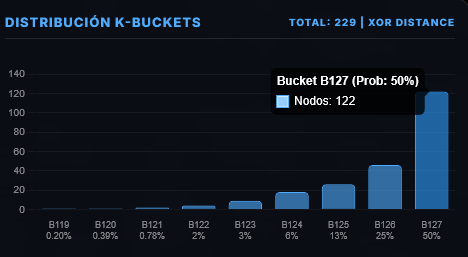
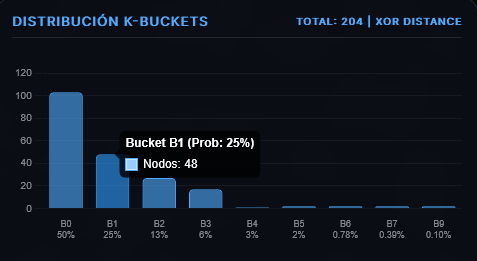
feat: Sybil and Eclipse attacks detection (phase 1)

diff --git a/frontend/app.js b/frontend/app.js
@@ -634,10 +634,9 @@ function updateKBucketsChart(nodes, localId) {
         const dist = getKadDistance(localId, node.id);
         if (dist === 0n) return; // Somos nosotros o misma ID
 
-        // El bucket es la posición del bit más significativo (log2)
-        // En JS con BigInt: toString(2).length - 1
-        const bucketIndex = dist.toString(2).length - 1;
-        if (bucketIndex >= 0 && bucketIndex <= 128) {
+        // El bucket es (127 - log2(dist)) para que B0 sea el más lejano
+        const bucketIndex = 127 - (dist.toString(2).length - 1);
+        if (bucketIndex >= 0 && bucketIndex <= 127) {
             bucketCounts[bucketIndex]++;
         }
     });
@@ -651,10 +650,10 @@ function updateKBucketsChart(nodes, localId) {
     const dataValues = [];
     let validNodesCount = 0;
 
-    for (let i = 0; i <= 128; i++) {
+    for (let i = 0; i <= 127; i++) {
         if (bucketCounts[i] > 0) {
-            // Calcular la probabilidad matemática de caer en esta cubeta (1 / 2^(128-i))
-            const probPct = (1 / Math.pow(2, 128 - i)) * 100;
+            // Probabilidad invertida: B0 = 50%, B1 = 25%...
+            const probPct = (1 / Math.pow(2, i + 1)) * 100;
             let probStr = "<0.01%";
             if (probPct >= 1) {
                 probStr = `${Math.round(probPct)}%`;

diff --git a/backend/ids_engine.py b/backend/ids_engine.py
@@ -1,6 +1,7 @@
 import json
 import os
 from datetime import datetime
+from . import kad_utils
 
 class KadIDSEngine:
     """
@@ -160,6 +161,175 @@ class KadIDSEngine:
         
         self._save_history()
 
+
+    def _detect_eclipse(self, stats, nodes):
+
+        """
+        Detector de Ataques Sybil/Eclipse.
+        
+        Analiza la distribución de buckets y la proximidad de IDs para identificar
+        intentos de aislamiento del nodo o inundación de identidades falsas.
+
+        Args:
+            stats (dict): Estadísticas del cliente (debe contener 'local_id').
+            nodes (list): Lista de nodos geolocalizados.
+
+        Returns:
+            tuple: (list de alertas, float p_value_placeholder)
+        """
+
+        # KadID local
+        local_id = stats.get("local_id")
+
+        if not local_id or not nodes:
+            return [], 1.0
+
+        total_nodes = len(nodes) # Total de nodos 
+
+        observed = {} # Diccionario para contar nodos observados en cada bucket
+        proximity_buckets = [117, 118, 119, 120, 121, 122, 123, 124, 125, 126, 127] # Zona de riesgo (ahora en índices altos)
+        proximity_count = 0 # Contador de nodos en buckets cercanos
+
+        subnet_groups = {} # Diccionario para agrupar nodos por subred
+        
+        # 1. Clasificación de nodos por bucket y subred
+        for node in nodes:
+
+            node_id = node.get("id")
+            node_ip = node.get("ip", "")
+            
+            if not node_id:
+                continue
+            
+            # Calcula el bucket al que pertenece el nodo
+            bucket = kad_utils.get_kad_bucket(local_id, node_id)
+
+            # Cuenta cuántos nodos hay en cada bucket
+            observed[bucket] = observed.get(bucket, 0) + 1
+            
+            # Conteo de proximidad a la zona de riesgo
+            if bucket in proximity_buckets:
+                proximity_count += 1
+                
+            # Agrupación por subred /24 en buckets cercanos (B117-B127)
+            if bucket >= 117 and node_ip:
+
+                """
+                La subred /24 es la "huella dactilar" de una ubicación física o un servidor específico. 
+                Si vemos una concentración de nodos ahí, es casi seguro que se trata de un ataque desde una granja de servidores o una infraestructura controlada.
+                """
+
+                # Por ejemplo: "200.74.56.12" se convierte en "200.74.56"
+                subnet = ".".join(node_ip.split(".")[:3])
+                
+                # Si el bucket no existe, se crea
+                if bucket not in subnet_groups:
+                    subnet_groups[bucket] = {}
+
+                # Cuenta cuántos nodos hay en cada subred
+                subnet_groups[bucket][subnet] = subnet_groups[bucket].get(subnet, 0) + 1
+
+        # 2. Cálculo de distribución esperada P(bucket_i) = 1/2^(i+1)
+        expected = {}
+
+        """
+        Probabilidad de que un nodo caiga en cada bucket:
+        B0 (lejano) = 0.5 (50% de los nodos estarán en el bucket B0)
+        B1 (medio) = 0.25 (25% de los nodos estarán en el bucket B1)
+        B2 (medio-lejano) = 0.125 (12.5% de los nodos estarán en el bucket B2)
+        B3 (medio-lejano) = 0.0625 (6.25% de los nodos estarán en el bucket B3)
+        ...
+        ...
+        B127 (cercano) ~ 0 (0% de los nodos estarán en el bucket B127)
+        """
+
+        # Recorre los 128 buckets y calcula la probabilidad de que cada uno tenga un nodo
+        for i in range(128):
+            prob = 1.0 / (2**(i+1)) # Probabilidad teórica de que un nodo caiga en el bucket i
+            expected[i] = total_nodes * prob # Número esperado de nodos en el bucket i
+
+        # 3. Test Chi-cuadrado
+
+        chi_sq = kad_utils.chi_squared_buckets(observed, expected)
+        
+        alerts = []
+        
+        """
+        Como tenemos 128 buckets, los grados de libertad (GL) son 127.
+        Un $p < 0.01$ significa que hay menos de un 1% de probabilidad de que la diferencia que estamos viendo sea por pura suerte o azar.
+
+        Umbral de Chi-cuadrado para 127 GL -> p < 0.01 es ~168.9
+        - Cualquier valor > 168.9 es sospechoso.
+        - Nota: Usamos un umbral conservador (250.0) ya que KadGlobe es muy sensible a los cambios naturales en la red. 
+            Sigue siendo extremadamente sensible para detectar un ataque real, pero nos da un colchón de seguridad mucho mayor contra los falsos positivos.
+        """
+
+        if chi_sq > 250.0:
+
+            alerts.append({
+                "type": "eclipse",
+                "severity": "info",
+                "title_es": "Distribución anómala de buckets",
+                "title_en": "Anomalous bucket distribution",
+                "detail_es": f"Test Chi-cuadrado: {chi_sq:.2f}. Los IDs no siguen una distribución aleatoria.",
+                "detail_en": f"Chi-squared test: {chi_sq:.2f}. IDs do not follow a random distribution.",
+                "indicator": {"chi_sq": chi_sq},
+                "recommendation_es": "Monitorea la tabla de rutas; un atacante podría estar preparando un ataque de aislamiento (Eclipse).",
+                "recommendation_en": "Monitor the routing table; an attacker might be preparing an isolation attack (Eclipse)."
+            })
+
+        # 4. Alerta de Proximidad Crítica
+
+        if proximity_count > 5:
+
+            alerts.append({
+                "type": "eclipse",
+                "severity": "critical",
+                "title_es": "Ataque Eclipse Detectado",
+                "title_en": "Eclipse Attack Detected",
+                "detail_es": f"Se han detectado {proximity_count} nodos en buckets de proximidad crítica (B117-B127).",
+                "detail_en": f"Detected {proximity_count} nodes in critical proximity buckets (B117-B127).",
+                "indicator": {"proximity_count": proximity_count},
+                "recommendation_es": "¡Peligro! Tu nodo está rodeado. Considera reiniciar la red Kad.",
+                "recommendation_en": "Danger! Your node is surrounded. Consider restarting the Kad network."
+            })
+
+        elif proximity_count > 3:
+
+            alerts.append({
+                "type": "eclipse",
+                "severity": "warning",
+                "title_es": "Concentración sospechosa de IDs",
+                "title_en": "Suspicious ID concentration",
+                "detail_es": f"{proximity_count} nodos detectados inusualmente cerca de tu ID.",
+                "detail_en": f"{proximity_count} nodes detected unusually close to your ID.",
+                "indicator": {"proximity_count": proximity_count},
+            })
+
+
+        # 5. Detección de Sybil (Concentración por Subred /24)
+
+        for bucket, subnets in subnet_groups.items():
+            for subnet, count in subnets.items():
+                if count > 3:
+                    alerts.append({
+                        "type": "sybil",
+                        "severity": "warning",
+                        "title_es": "Nodos Sybil detectados",
+                        "title_en": "Sybil nodes detected",
+                        "detail_es": f"Concentración de {count} nodos de la misma subred {subnet}.x en el bucket {bucket}.",
+                        "detail_en": f"Concentration of {count} nodes from same {subnet}.x subnet in bucket {bucket}.",
+                        "indicator": {"subnet": subnet, "bucket": bucket, "count": count},
+                        "recommendation_es": "Posible ataque Sybil. Considera purgar la tabla de rutas y reconectarte.",
+                        "recommendation_en": "Possible Sybil attack. Consider purging the routing table and reconnecting."
+                    })
+
+        # Retornamos p-value simplificado (0.001 si chi_cuadrado (chi_sq) es muy alto)
+        p_val = 0.001 if chi_sq > 168 else 1.0
+
+        return alerts, p_val
+
+
     # Función principal
     def analyze(self, stats, nodes, udp_nodes):
 
@@ -182,8 +352,14 @@ class KadIDSEngine:
         self._update_history(stats)
         
         alerts = []
+        
+        # --- Fase 1: Detector Sybil/Eclipse ---
 
-        # En la Fase 0 solo preparamos la estructura
+        # Realizamos el análisis de Sybil/Eclipse
+        eclipse_alerts, chi_p = self._detect_eclipse(stats, nodes)  # chi_p es el p-value simplificado
+
+
+        alerts.extend(eclipse_alerts) # Agregamos las alertas de Sybil/Eclipse
         
         # Lógica de Severidad Global con Cooldown de 3 ciclos (90 segundos)
         current_max_severity = "ok"
@@ -221,8 +397,8 @@ class KadIDSEngine:
             "timestamp": datetime.now().isoformat(),
             "global_severity": current_max_severity,
             "alerts": alerts,
-            "stats": { # Placeholders para métricas calculadas en fases siguientes
-                "chi_squared_p_value": 1.0,
+            "stats": {
+                "chi_squared_p_value": chi_p,
                 "contacts_cv": 0.0,
                 "overhead_rate": 0.0
             }

diff --git a/backend/kad_utils.py b/backend/kad_utils.py
@@ -16,14 +16,25 @@ def get_kad_distance(id1_hex, id2_hex):
 def get_kad_bucket(id1_hex, id2_hex):
     """
     Calcula el K-Bucket (0-127) para una distancia dada. Corresponde a la posición del bit más significativo del XOR.
+
+    El k-bucket B0 es para las IDs más lejanas, en las que el primer bit (Most Significant Bit) ya es diferente.
+    El k-bucket B127 es para las IDs más cercanas, en las que solo el último bit (Least Significant Bit) es diferente.
     """
     distance = get_kad_distance(id1_hex, id2_hex)
-    if distance is None or distance == 0:
-        return 0
+
+    # Si la distancia es None, retorna bucket B127 (corresponde a IDs casi iguales -> distancia = 0)
+    if distance is None:
+        return 127
     
-    # En Python, bit_length() devuelve la posición del bit más alto (1-based)
-    # El bucket 0 es distancia 1 (bit_length 1), el 127 es bit_length 128.
-    return distance.bit_length() - 1
+    # Calcula la posición del bit más significativo del XOR
+    bit_pos = distance.bit_length() - 1
+    
+    # Caso especial para distancia = 0
+    if bit_pos < 0: 
+        bit_pos = 0 
+
+    # Invierte la posición para obtener el índice del bucket (0-127)
+    return 127 - bit_pos
 
 
 def chi_squared_buckets(observed, expected): 

diff --git a/tests/test_kad_logic.py b/tests/test_kad_logic.py
@@ -17,13 +17,13 @@ def test_xor_logic():
     Funciones: get_kad_distance(), get_kad_bucket()
     """
     id_self = "00000000000000000000000000000000"
-    id_far  = "80000000000000000000000000000000" # MSB diferente -> Bucket 127
-    id_near = "00000000000000000000000000000001" # LSB diferente -> Bucket 0
+    id_far  = "80000000000000000000000000000000" # MSB diferente -> Bucket 0 (lejano)
+    id_near = "00000000000000000000000000000001" # LSB diferente -> Bucket 127 (cercano)
     
-    assert get_kad_bucket(id_self, id_far) == 127
-    assert get_kad_bucket(id_self, id_near) == 0
+    assert get_kad_bucket(id_self, id_far) == 0
+    assert get_kad_bucket(id_self, id_near) == 127
     assert get_kad_distance(id_self, id_self) == 0
-    assert get_kad_bucket(id_self, id_self) == 0
+    assert get_kad_bucket(id_self, id_self) == 127
 
 # 2. Verificar robustez del parser de nodes.dat
 def test_parser_robustness(tmp_path):

diff --git a/README.md b/README.md
@@ -67,9 +67,12 @@ El proyecto se divide en un backend de orquestación y un frontend de visualizac
 
 ![alt text](images/ranking.png)
 
-*   **Distribución K-Buckets**: Un histograma que muestra cuántos "contactos" (nodos) tienes en cada "cubo" de enrutamiento (distancia XOR 0-128). Es normal ver más nodos en los buckets lejanos (122-128) y muy pocos en los cercanos (<=121).
+*   **Distribución K-Buckets**: Un histograma que muestra cuántos "contactos" (nodos) tienes en cada "cubo" (_bucket_) de enrutamiento (distancia XOR $0-127$). Es normal ver más nodos en los buckets lejanos ($B0$, $B1$, etc.) y muy pocos en los cercanos ($B123$ a $B127$).
 
 ![alt text](images/kbuckets.png)
+
+> Nota: Ten en cuenta que la probabilidad de que un nodo caiga en $B0$ es 50%, en $B1$ es 25%, en $B2$ es 12.5%, etc. Por eso virtualmente no verás nodos en los buckets más cercanos (la probabilidad es ínfima). La fórmula es: 
+$$P(Bi) = \frac{1}{2^{i+1}}$$
 
 *   **Top 10 Vecindario XOR**: Al hacer clic en un nodo, se muestra una ventana con su IP, su ubicación y  su Kad ID. También se se calculan sus 10 vecinos más cercanos criptográficamente (distancia XOR) y se trazan arcos dorados de conexión.
 

diff --git a/README_EN.md b/README_EN.md
@@ -66,10 +66,12 @@ The project is built with a robust Python backend and a premium web-based fronte
 
 ![alt text](images/ranking.png)
 
-*   **K-Buckets Distribution**: A histogram showing how many contacts you have in each routing "bucket" (XOR distance 0-128).
+*   **K-Buckets Distribution**: A histogram showing how many contacts (nodes) you have in each routing "bucket" (XOR distance $0-127$). It is expected to see more contacts in far buckets ($B0$, $B1$, etc.) and very few in near ones ($B123$ to $B127$).
 
 ![alt text](images/kbuckets.png)
 
+> Note: Keep in mind that the probability of a node falling into $B0$ is 50%, into $B1$ is 25%, into $B2$ is 12.5%, etc. Therefore, you will virtually never see nodes in the nearest buckets (the probability is infinitesimal). The formula is: 
+$$P(Bi) = \frac{1}{2^{i+1}}$$
 
 *   **Top 10 XOR Neighborhood**: Clicking a node calculates its 10 mathematically closest neighbors and traces golden connection arcs.
 
